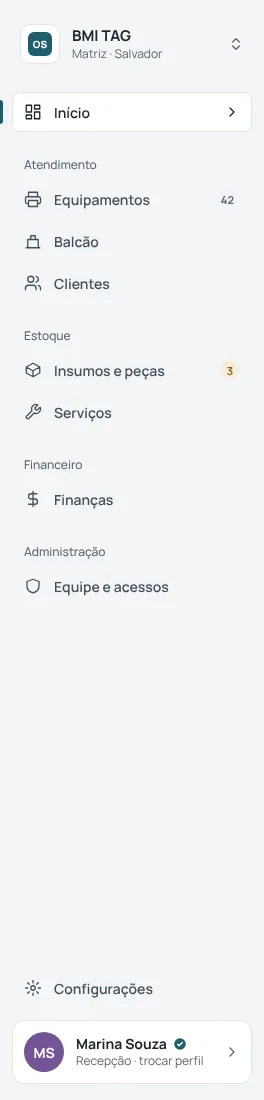
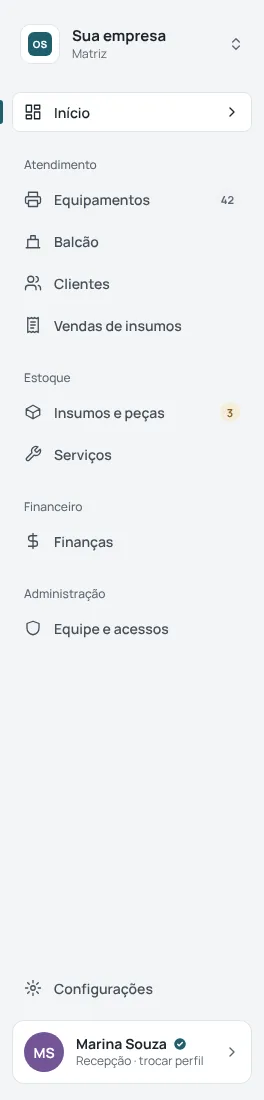
docs: Vendas de insumos no alvo do redesign
Folhas de Vendas de insumos (lista, orçamento e edição como página,
modais, estados e celular) exportadas do canvas, decisão 23 no ALVO.md,
fase V no plano e menu lateral de referência com o item novo.

Claude-Session: https://claude.ai/code/session_01DaV7KuehXbtNNevy8Km2Vh

diff --git a/docs/redesign/PLANO_IMPLEMENTACAO.md b/docs/redesign/PLANO_IMPLEMENTACAO.md
@@ -223,6 +223,44 @@ Referência: seção "Acabamento" de `referencia/design-system/MANUAL.md` e os t
   - Fica fora: as animações de abertura, `PinLock` e `FirstAccessBridge`.
   - Para achar animação fora da regra: `grep -rnE "duration-[0-9]{3,}|transition-all" src --include=*.tsx`.
 
+**Fase V: Vendas de insumos (acrescentada depois; começa da versão já feita na `redesign/direcao-b`).**
+
+Referência: `referencia/telas/10-vendas/`, decisão 23 do `ALVO.md` e `docs/ORCAMENTOS_INSUMOS.md`. Regras de negócio, permissões (`FINANCIAL_ACTIONS` + `ensureSensitiveAccess`), concorrência e textos do backend ficam como estão.
+
+- **V.1 `src/lib/orcamento-insumos.ts`: duas funções puras, com teste.**
+  - `proximaAcaoVenda(status, vencido)` devolve `{ rotulo, tipo }`: Enviar, Aprovar, Renovar validade, Marcar entregue ou Ver. Substitui a `proximaAcao` de `OrcamentosInsumosTab.tsx`.
+  - `prazoOuData(orcamento, hoje)` devolve:
+    - "vence 20/11" ou "venceu 08/11" só para Rascunho e Enviado;
+    - para as outras situações, "aprovado 12/11 · Pix", "entregue 10/11", "reprovado 07/11" ou "criado 03/11".
+  - Pronto quando os testes novos passam e `npm run test:run` continua verde.
+- **V.2 `src/pages/insumos/OrcamentosInsumosTab.tsx`: lista.**
+  - Usa as funções da V.1, com o selo "Vencido" ao lado da situação.
+  - Ação principal com 176px e ⋯ (`ActionPriorityRow`) com as seções Enviar, Decidir e Orçamento.
+  - O parágrafo explicativo vai para o estado vazio.
+  - Estados: filtro sem resultado com "Limpar busca", carregando em linhas e erro com "Tentar novamente".
+  - Sem a permissão: sem "+ Novo orçamento" e sem ⋯, e a ação vira "Ver".
+  - Pronto com lint, testes e E2E.
+- **V.3 Página `/vendas/:id`.**
+  - Rota nova em `App.tsx`, que aponta para uma página nova `src/pages/vendas/VendaDetalhe.tsx`.
+  - O conteúdo de leitura sai de `OrcamentoInsumosDialog.tsx`, sem mudar a lógica: barra de 4 etapas, itens com "Saldo agora" e aviso de falta, cartões Cliente, Condições e Registro (só datas).
+  - Clicar no número ou na ação "Ver" navega para a página.
+  - Os testes do diálogo que abrem o orçamento podem mudar **só a navegação**, nunca a verificação, como na fase 6. Peça o OK antes.
+- **V.4 Páginas `/vendas/novo` e `/vendas/:id/editar`.**
+  - O formulário sai da janela para a página, com barra fixa no rodapé ("Descartar alterações" / "Salvar orçamento").
+  - Ao editar um Enviado, aviso no topo de que ele volta para Rascunho.
+  - Salvar continua chamando o mesmo comando.
+- **V.5 Modais**, com as larguras e formatos do DS:
+  - Enviar (M, com e-mail, WhatsApp e salvar PDF);
+  - Aprovar (M, com a forma de pagamento);
+  - recusa por falta de estoque (M, com "Dar entrada no estoque" e "Editar quantidades");
+  - cancelar aprovado (M, com a caixa que envia `confirmar_devolucao_estoque`);
+  - reprovar, entregar, cancelar e excluir (P).
+  
+  O PIN continua com `ensureSensitiveAccess`: não acrescente campo de PIN nos modais.
+- **V.6 Celular.** Abaixo de `md`, a lista vira cartões e o orçamento ganha a ação fixa no rodapé. Alvos de 44px ou mais.
+
+Antes da V.3, pergunte ao dono do produto os três pendentes da decisão 23.
+
 **Fase 9: Portal do Cliente** (`src/public-status/`, build separado com `npm run build:public-status`).
 - Trocar `public-status.css` e `portal-orcamento.css` pelos tokens.
 - No celular, as respostas ao orçamento abrem como painel que sobe do rodapé.

diff --git a/docs/redesign/referencia/README.md b/docs/redesign/referencia/README.md
@@ -164,6 +164,58 @@ Tema escuro: [10-modal-novo-cliente-escuro.webp](telas/04-atendimento/10-modal-n
 
 Tema escuro: [11-modais-clientes-escuro.webp](telas/04-atendimento/11-modais-clientes-escuro.webp)
 
+## Vendas de insumos (/vendas)
+
+Orçamentos OI-n de etiquetas, ribbons e peças sem equipamento em manutenção. Item próprio no menu (Atendimento, abaixo de Clientes). Substitui as pranchetas antigas de orçamento de insumos em "Estoque e serviços". Regras: `docs/ORCAMENTOS_INSUMOS.md` e decisão 23 do `ALVO.md`.
+
+### Lista
+
+Uma ação principal por situação (Enviar, Aprovar, Renovar validade, Marcar entregue, Ver) e ⋯ com Enviar, Decidir e Orçamento. Coluna "Prazo ou data" muda conforme a situação.
+
+![lista, tema claro](telas/10-vendas/01-lista-claro.webp)
+
+Tema escuro: [01-lista-escuro.webp](telas/10-vendas/01-lista-escuro.webp)
+
+### Orçamento como página
+
+Barra de 4 etapas com datas, itens com saldo de agora e aviso de falta, cliente com canais, condições e registro só com datas.
+
+![orçamento como página, tema claro](telas/10-vendas/02-orcamento-pagina-claro.webp)
+
+Tema escuro: [02-orcamento-pagina-escuro.webp](telas/10-vendas/02-orcamento-pagina-escuro.webp)
+
+### Editar e criar como página
+
+Mesmo desenho do orçamento, editável, com barra fixa no rodapé. Editar um Enviado avisa que volta para Rascunho.
+
+![editar e criar como página, tema claro](telas/10-vendas/03-editar-e-criar-claro.webp)
+
+Tema escuro: [03-editar-e-criar-escuro.webp](telas/10-vendas/03-editar-e-criar-escuro.webp)
+
+### Modais
+
+Enviar, Aprovar (forma de pagamento), aprovação recusada por falta de estoque, cancelar aprovado (confirma devolução), reprovar, entregar, cancelar, excluir e o PIN com sessão bloqueada.
+
+![modais, tema claro](telas/10-vendas/04-modais-claro.webp)
+
+Tema escuro: [04-modais-escuro.webp](telas/10-vendas/04-modais-escuro.webp)
+
+### Estados da lista e celular
+
+Vazia, filtro sem resultado, carregando, erro, sem permissão e 390 px.
+
+![estados da lista e celular, tema claro](telas/10-vendas/05-estados-lista-e-celular-claro.webp)
+
+Tema escuro: [05-estados-lista-e-celular-escuro.webp](telas/10-vendas/05-estados-lista-e-celular-escuro.webp)
+
+### Estados do orçamento
+
+Vencido, aprovado, cancelado, cliente sem WhatsApp e sem permissão.
+
+![estados do orçamento, tema claro](telas/10-vendas/06-estados-orcamento-claro.webp)
+
+Tema escuro: [06-estados-orcamento-escuro.webp](telas/10-vendas/06-estados-orcamento-escuro.webp)
+
 ## Balcão
 
 ### Balcao inicio

diff --git a/docs/redesign/ALVO.md b/docs/redesign/ALVO.md
@@ -92,6 +92,27 @@ Cada linha é algo que o dono pediu ou aprovou. Onde diz **rejeitado**, foi test
     - **O que abre e fecha:** o cabeçalho inteiro é um botão só, e o nome lido é o texto visível.
 22. **Alto contraste: decisão pendente.** Se entrar, é um terceiro tema (texto ≥7:1), com ticket próprio. Não faz parte do redesign atual.
 
+### Vendas de insumos
+
+23. **Orçamentos de insumos (OI-n) viram "Vendas de insumos" (`/vendas`)**, item próprio no menu em Atendimento, abaixo de Clientes. O nome fica; a sigla OI-n também. Desenho em `referencia/telas/10-vendas/`.
+    - **Ação principal por situação:**
+      - Rascunho → Enviar;
+      - Enviado → **Aprovar** (não "Abrir");
+      - Rascunho ou Enviado vencido → **Renovar validade**, que abre a edição, porque aprovar fica bloqueado;
+      - Aprovado → Marcar entregue;
+      - Entregue, Reprovado e Cancelado → Ver.
+    - **Validade só para Rascunho e Enviado.** Nas outras situações, a coluna mostra a data do que aconteceu ("aprovado 12/11 · Pix", "entregue 10/11").
+    - **Orçamento, criar e editar são páginas** (`/vendas/:id`, `/vendas/novo`, `/vendas/:id/editar`), não janela.
+    - **Falta de estoque aparece antes de aprovar:** na tabela ("6 · falta 4") e num aviso com "Dar entrada no estoque" e "Editar quantidades". A recusa do backend usa o texto dele.
+    - **Não desenhe como se existisse:**
+      - quem fez cada passo e por qual canal (só existem as datas; quem criou existe em `criado_por_profile_id`);
+      - pagamento recebido;
+      - versões do orçamento.
+    - **Pendente do dono do produto:**
+      - quem não tem "Ações financeiras" vê a prévia do PDF mas não salva, porque salvar marca Enviado;
+      - a data mostrada para Cancelado;
+      - "Dar entrada no estoque" abrir a movimentação já com o item e a quantidade que falta.
+
 ### Produto
 
 18. **Função igual.** O redesign muda a aparência e, às vezes, o caminho (itens 8 a 10). Não muda regra, permissão, auditoria, PIN, confirmação ou texto de ação.
